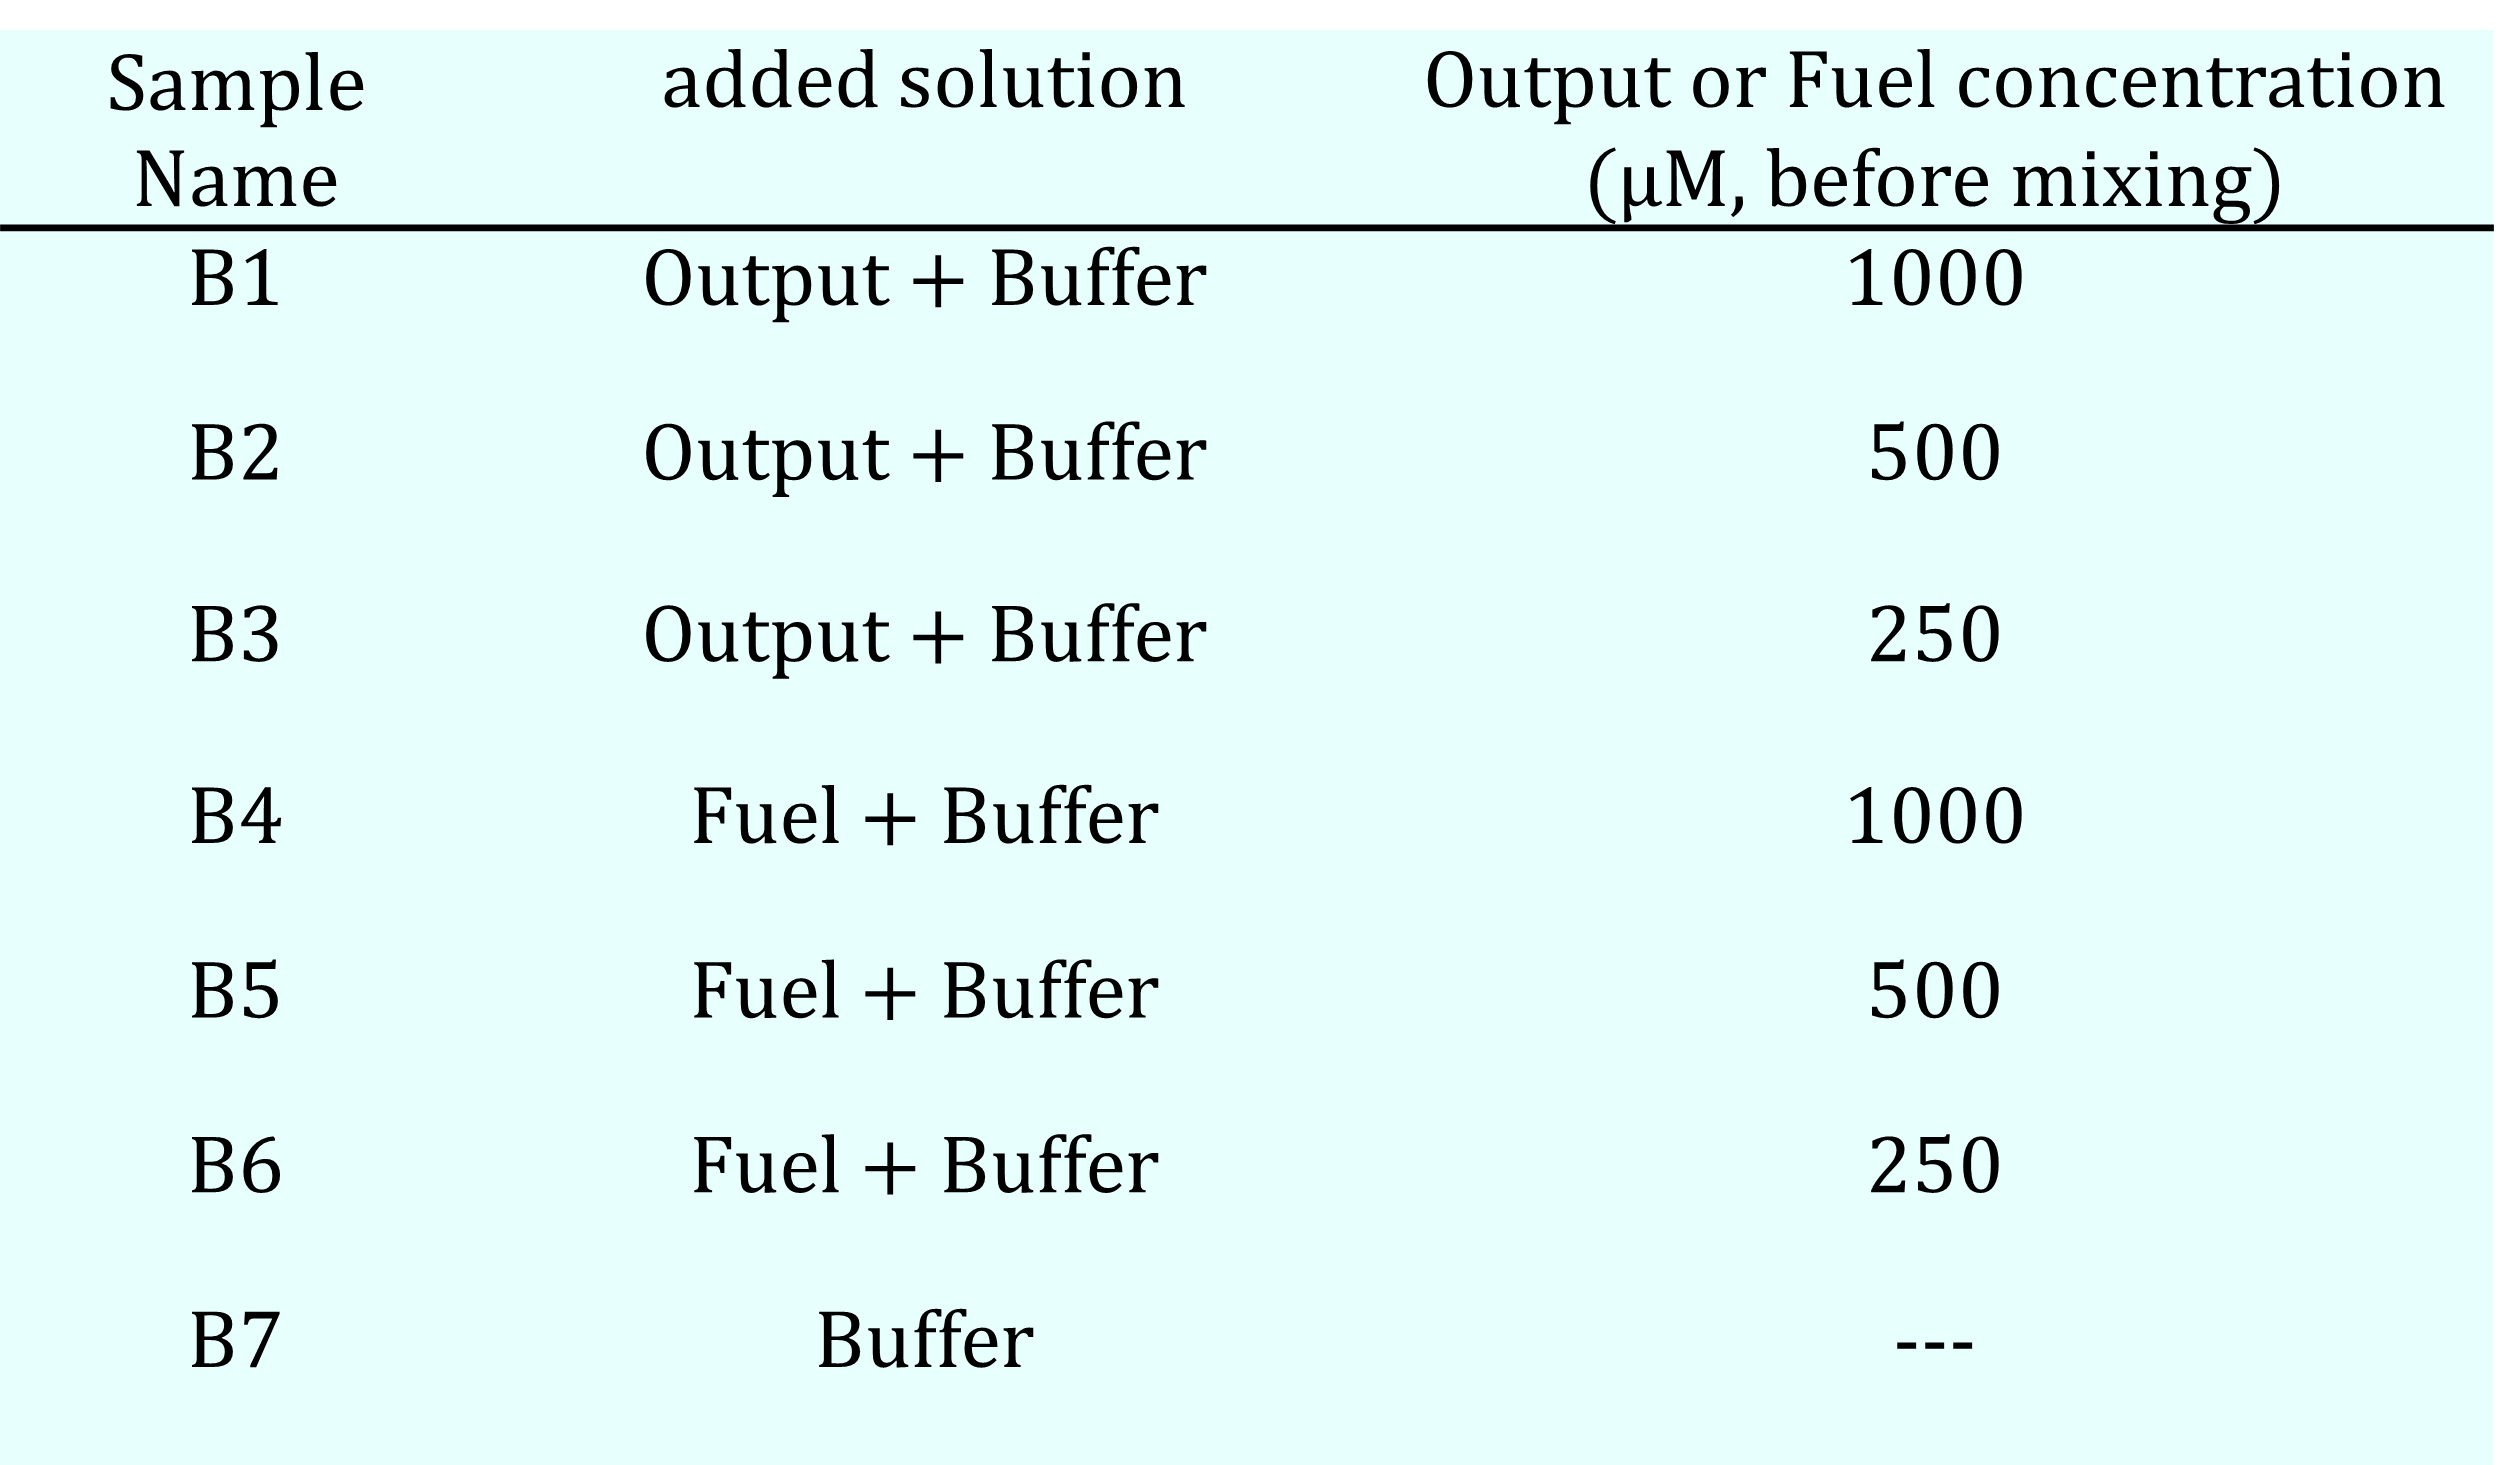
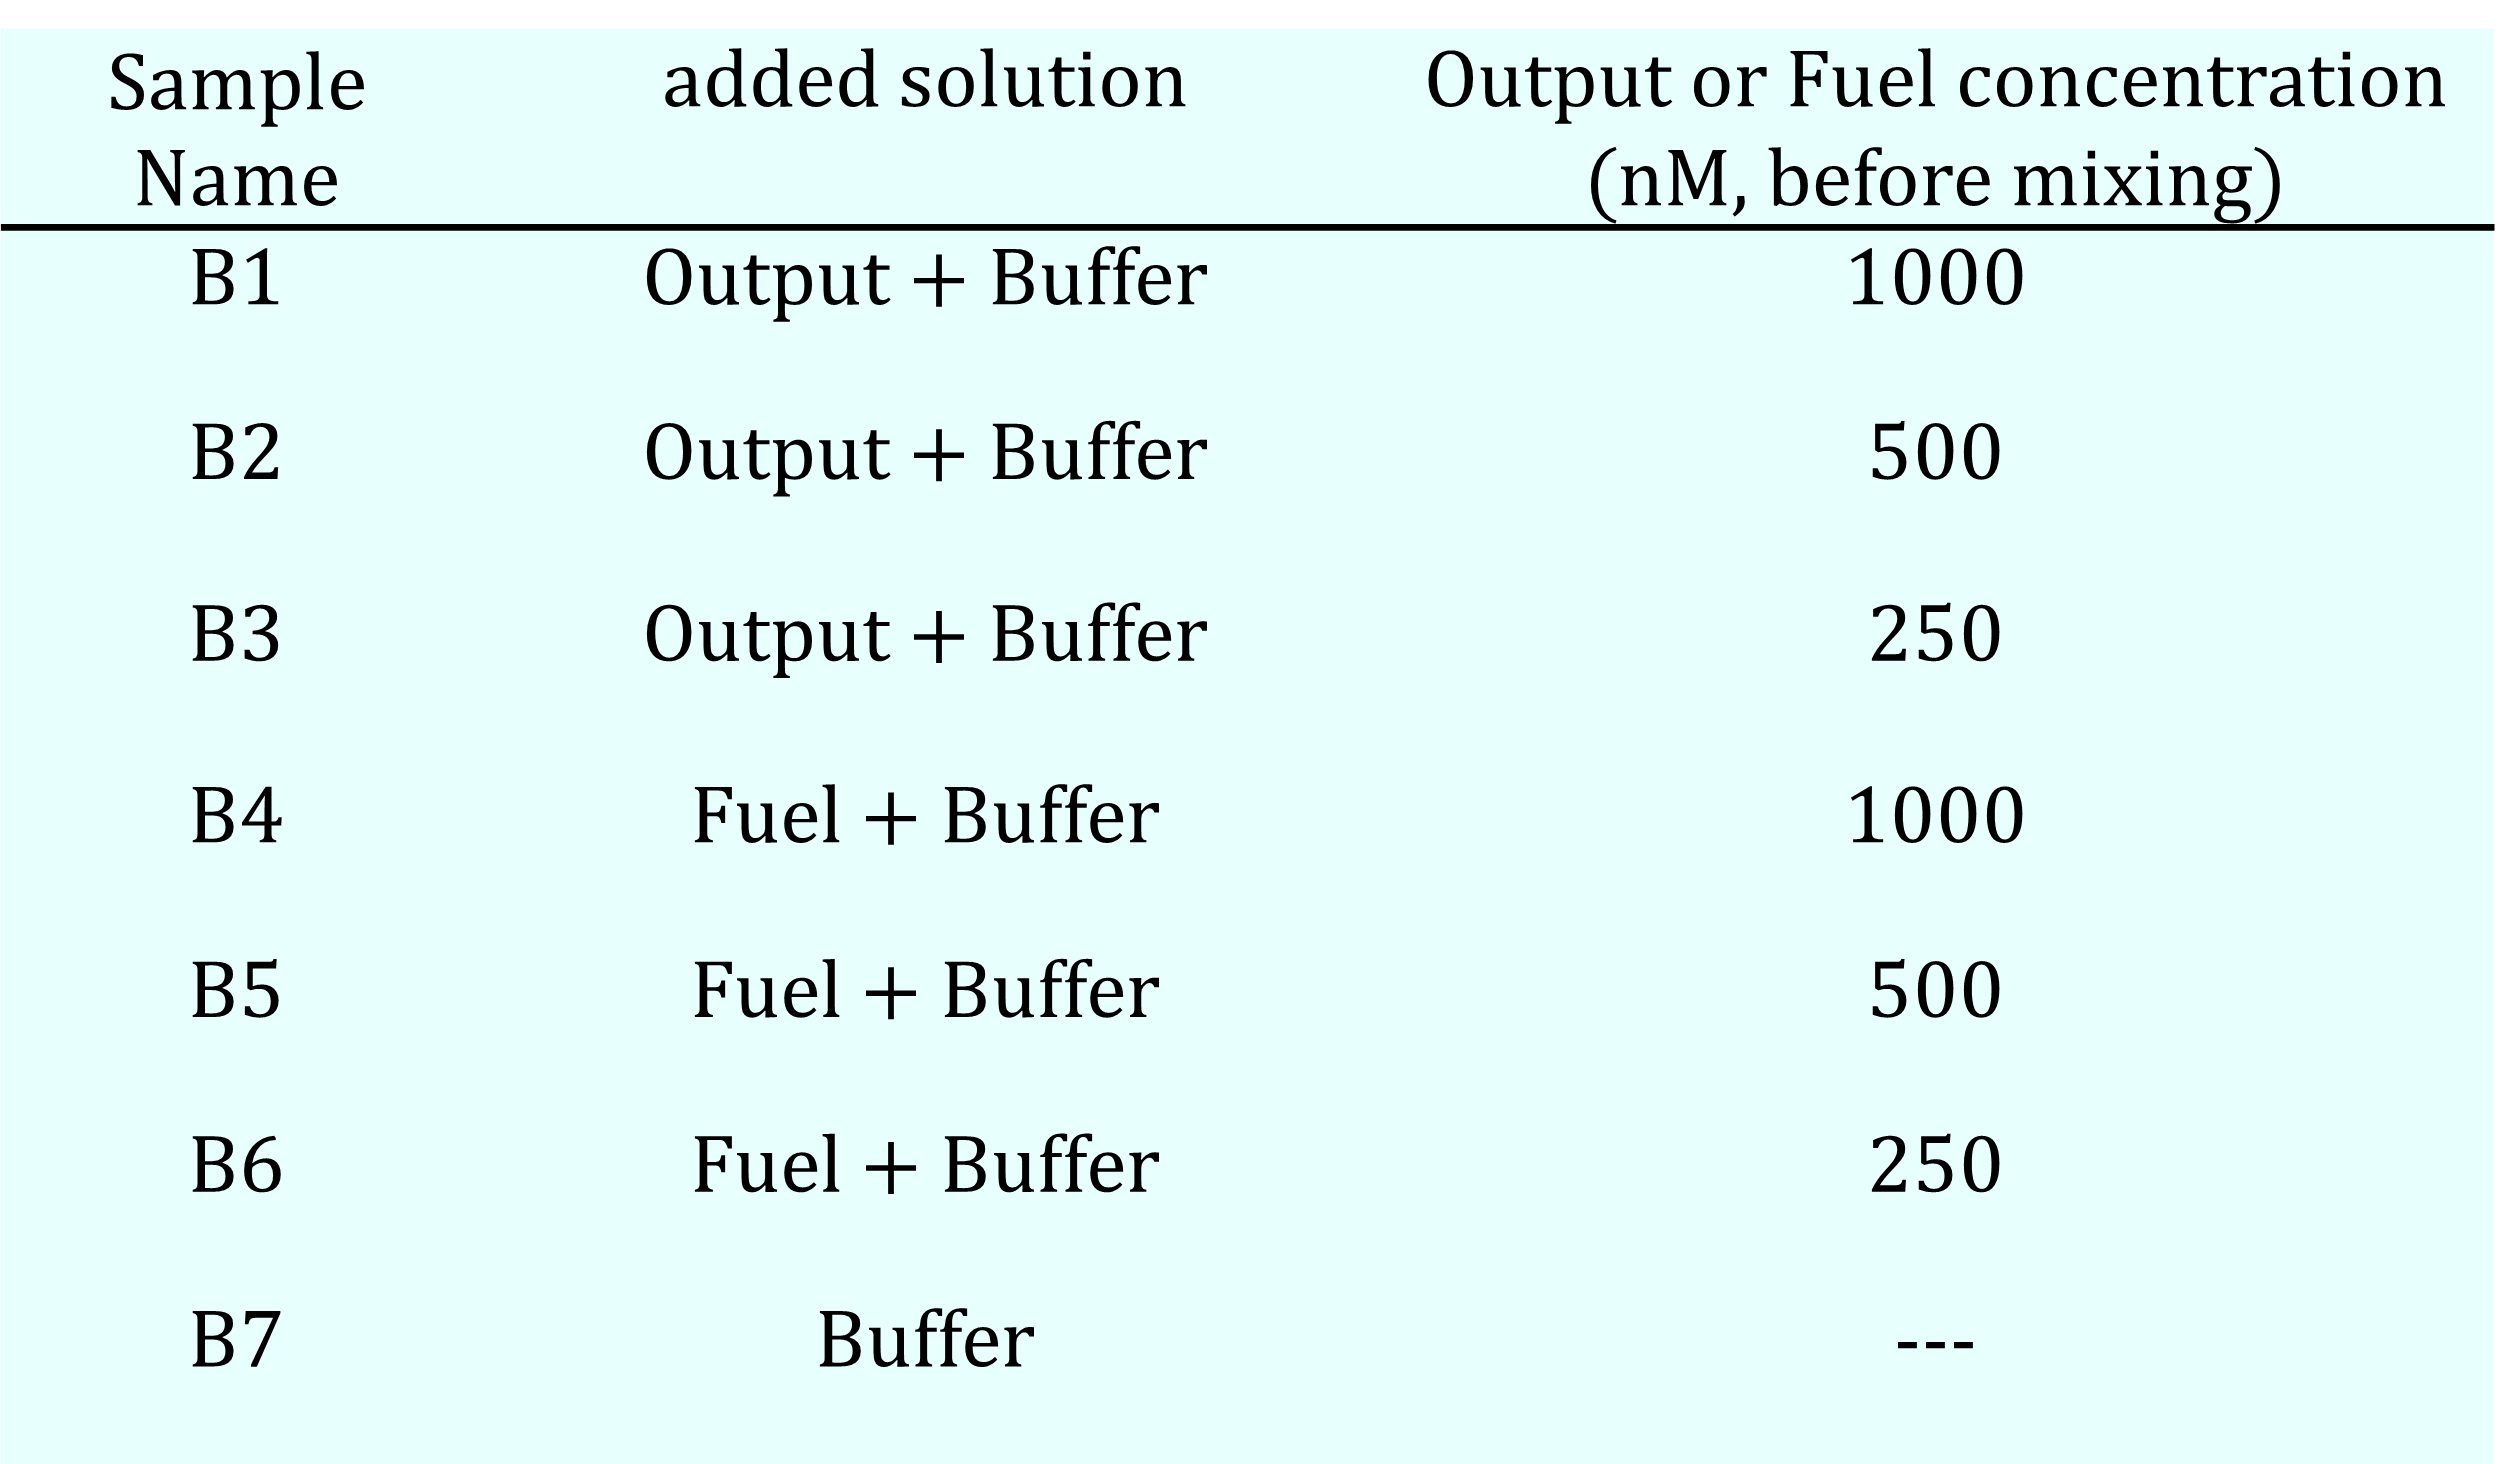
適当

diff --git a/experiment.html b/experiment.html
@@ -60,6 +60,7 @@
         <h3 class="sub">Method</h3>
         <h3>
         We compared four samples with different Catalyst concentrations. The Catalyst concentrations were adjusted to 50 nM (Sample #1), 25 nM (Sample #2), 10 nM (Sample #3), and 0 nM (Sample #4). Each solution also contained 20 nM of Substrate and 1000 nM of Fuel.<br>
+        <br><br>
         To detect the presence of the Output, we used a reporter molecule as illustrated below. When the Output strand is present, it binds to the reporter and triggers a strand displacement reaction. The reporter consists of a duplex of a fluorophore-labeled DNA strand and a BHQ-labeled quencher strand. Initially, fluorescence is quenched by the BHQ; however, when the strand displacement reaction occurs, the fluorophore-labeled strand is released, resulting in an increase in fluorescence intensity. The change in fluorescence intensity was monitored using real-time PCR (model number: CFX Opus 96), with measurements taken every minute for 80 minutes at a constant temperature of 25 °C.
         </h3>
         <div class="figure-block">
@@ -78,7 +79,8 @@
         <h3>
         The rate of increase in fluorescence intensity for the 50 nM sample slowed significantly after 10 minutes.On the other hand, under other conditions, the fluorescence intensity gradually increased throughout the measurement time. The result showed that amplification occurred more in the 0 nM condition than in the 10 nM condition. 
         However, focusing on the change over time, it can be seen that the fluorescence intensity increase in the 0 nM condition occurred at nearly the same time point as the 50 nM and 25 nM conditions, and the subsequent rate of increase was not significantly different from the 10 nM condition.
-        Therefore, it's possible the 0 nM and 10 nM samples were switched, but this isn't certain.<br>
+        Therefore, it's possible the 0 nM and 10 nM samples were switched, but this isn't certain.
+        <br><br>
         Nonetheless, the overall trend confirmed that a higher Catalyst concentration led to a faster Output generation rate and a higher final Output concentration. Thus, we concluded that the literature results were generally reproducible and decided to proceed to the next experiment."
         </h3>
         <h3 class="sub">Next Step</h3>
@@ -518,7 +520,7 @@
             </div>
         </div>
         <h3>
-        Upon visual inspection of Fig. 9a, the band for sample B1, to which the "Output" strand was added at a concentration of 1000 µM, appeared fainter than the other samples. However, to account for the possibility of an optical illusion, three representative samples (B1, B4, and B7) were selected for a quantitative comparison of their band intensities (Fig. 9b).
+        Upon visual inspection of Fig. 9a, the band for sample B1, to which the "Output" strand was added at a concentration of 1000 nM, appeared fainter than the other samples. However, to account for the possibility of an optical illusion, three representative samples (B1, B4, and B7) were selected for a quantitative comparison of their band intensities (Fig. 9b).
         The quantitative analysis revealed no significant difference in intensity among these three samples, failing to substantiate the initial visual impression from Fig. 9a. Therefore, under the current experimental conditions, the inhibitory effect of the "Output" strand on assembly formation remains inconclusive. It is highly probable that the observed results were influenced by measurement errors and/or variations in sample preparation.
         </h3>
         <h3 class="sub">Next Step</h3>
@@ -658,9 +660,16 @@
         </h3>
         <h3 class="sub">Next Step</h3>
         <h3>
-        Based on the results of the current experiment, the next step is to verify whether binding between the sticky end strands can be induced by conducting the reaction under cooled conditions, rather than at room temperature. (<a href="#experiment14">Experiment 14</a>)
+        Based on the results of the current experiment, the next step is to verify whether binding between the sticky end strands can be induced by conducting the reaction under cooled conditions, rather than at room temperature. 
         </h3>
 
+        </section>
+        
+        <h3 class="sub">Summary of Experiments 1-13</h3>
+        <h3>
+        A comprehensive discussion and analysis of the experimental results presented here will be provided in the <a href="discussion_and_future.html">Discussion & Future</a> section.
+        </h3>
+        
         </main>
 
         <aside class="aside">

diff --git a/a.html b/a.html
@@ -1,0 +1,128 @@
+<!DOCTYPE html>
+<html lang="en">
+<head>
+    <meta charset="UTF-8">
+    <meta name="viewport" content="width=device-width, initial-scale=1.0">
+    <title>Hungry Gel Milestones</title>
+    <style>
+        body {
+            font-family: Arial, sans-serif;
+            padding: 20px;
+            background-color: #f5f5f5;
+        }
+        .container {
+            max-width: 100%;
+            margin: 0 auto;
+            background-color: white;
+            padding: 40px;
+            border-radius: 10px;
+        }
+        h1 {
+            text-align: center;
+            font-size: 2.5em;
+            margin-bottom: 50px;
+            color: #333;
+        }
+        .header-row {
+            display: grid;
+            grid-template-columns: 350px repeat(4, 1fr);
+            gap: 0;
+            margin-bottom: 15px;
+            align-items: center;
+        }
+        .header-spacer {
+            /* Empty space for alignment */
+        }
+        .header-item {
+            text-align: center;
+            font-weight: bold;
+            font-size: 1.1em;
+            color: #333;
+            padding: 10px;
+        }
+        .milestone-row {
+            display: grid;
+            grid-template-columns: 350px repeat(4, 1fr);
+            gap: 0;
+            margin-bottom: 20px;
+            align-items: center;
+        }
+        .milestone-label {
+            font-weight: bold;
+            font-size: 1.1em;
+            text-align: right;
+            padding-right: 30px;
+            color: #333;
+        }
+        .arrow {
+            height: 70px;
+            background-color: #E8F4F8;
+            border: 2px solid #4A9EBD;
+            position: relative;
+            margin-left: -2px;
+            display: flex;
+            align-items: center;
+            justify-content: center;
+            clip-path: polygon(0 0, calc(100% - 25px) 0, 100% 50%, calc(100% - 25px) 100%, 0 100%, 25px 50%);
+        }
+        .arrow:first-of-type {
+            margin-left: 0;
+            clip-path: polygon(0 0, calc(100% - 25px) 0, 100% 50%, calc(100% - 25px) 100%, 0 100%);
+        }
+    </style>
+</head>
+<body>
+    <div class="container">
+        <h1>Milestones of Hungry Gel Project</h1>
+        
+        <div class="header-row">
+            <div class="header-spacer"></div>
+            <div class="header-item">Principle</div>
+            <div class="header-item">Design</div>
+            <div class="header-item">Construction</div>
+            <div class="header-item">Validation</div>
+            <div class="header-item">Integration</div>
+        </div>
+
+        <div class="milestone-row">
+            <div class="milestone-label">Fabrication of DNA hydrogels</div>
+            <div class="arrow"></div>
+            <div class="arrow"></div>
+            <div class="arrow"></div>
+            <div class="arrow"></div>
+        </div>
+
+        <div class="milestone-row">
+            <div class="milestone-label">Construction of entropy-driven circuit</div>
+            <div class="arrow"></div>
+            <div class="arrow"></div>
+            <div class="arrow"></div>
+            <div class="arrow"></div>
+        </div>
+
+        <div class="milestone-row">
+            <div class="milestone-label">Verification of gel degradation by output DNA</div>
+            <div class="arrow"></div>
+            <div class="arrow"></div>
+            <div class="arrow"></div>
+            <div class="arrow"></div>
+        </div>
+
+        <div class="milestone-row">
+            <div class="milestone-label">Analysis of catalyst concentration vs degradation kinetics</div>
+            <div class="arrow"></div>
+            <div class="arrow"></div>
+            <div class="arrow"></div>
+            <div class="arrow"></div>
+        </div>
+
+        <div class="milestone-row">
+            <div class="milestone-label">Demonstration of complete cascade</div>
+            <div class="arrow"></div>
+            <div class="arrow"></div>
+            <div class="arrow"></div>
+            <div class="arrow"></div>
+        </div>
+    </div>
+</body>
+</html>

diff --git a/project_copy.html b/project_copy.html
@@ -63,12 +63,16 @@
         <br>
         <h3 class="sub">・Goal</h3>
         <h3>
-        In this study, we set the goal of developing a functional DNA hydrogel, named<strong> “Hungry Gel,”</strong> that mimics the phagocytic behavior of macrophages and autonomously detects and engulfs target bacteria.
-        </h3>
-        <h3>
-        できたゲルに対して、エントロピー駆動回路のoutputがゲルの網目構造を壊すことを確認し、最終的には細菌をゲルの内部に捕まえる機能を持たせることを目指す。
-        
-        </h3>
+        In this study, we set the goal of developing a functional DNA hydrogel, named <strong>"Hungry Gel,"</strong> that mimics the phagocytic behavior of macrophages and autonomously detects and engulfs target bacteria. Specifically, we focused on mimicking the process from signal recognition to engulfment. To achieve this, we established the following step-by-step objectives:
+        <ol>
+        <li>Fabrication of DNA hydrogels</li>
+        <li>Construction and validation of an entropy-driven catalytic circuit</li>
+        <li>Verification of gel degradation induced by output DNA</li>
+        <li>Analysis of the relationship between catalyst concentration and gel degradation kinetics</li>
+        <li>Demonstration of the complete cascade from catalyst input to gel dissolution</li>
+        </ol>
+        </h3>   
+
         <br>
         </section>
 

diff --git a/style.css b/style.css
@@ -2,6 +2,8 @@
 html, body {
     margin: 0;
     padding: 0;
+    /* ページ全体の背景色を変更する場合はここに追加 */
+    /* 例: background-color: #f5f5f5; */
 }
 
 
@@ -16,6 +18,7 @@ header {
     top: 0;
     height: 40px; /* ヘッダーの高さを指定 */
     width: 100%;
+    z-index: 10; /* ヘッダーを最前面に表示 */
 }
 
 header h2 {
@@ -142,6 +145,8 @@ nav {
     font-weight: normal;
     padding: 0 7.5%; /* 左右に画面幅の5%ずつマージン */
     font-family: "Times New Roman", "Georgia", serif;
+    /* コンテンツエリアの背景色を変更する場合はここに追加 */
+    /* 例: background-color: #ffffff; */
 }
 
 .content h2 {
@@ -226,7 +231,7 @@ img[id]{
     border-collapse: collapse;
     margin: 12px 0;
     font-size: 1em;
-    background: #fafafa;
+    background: #fafafa; /* テーブルの背景色を変更する場合はこの値を変更 */
 }
 .sequence-table th, .sequence-table td {
     border: 1px solid #bbb;

diff --git a/style_experiment.css b/style_experiment.css
@@ -53,6 +53,7 @@
     flex: 2;
     padding: 0;
     font-size: 0.75em;
+    z-index: 1;
 }
 
 /*ここから本文用のスタイル*/
